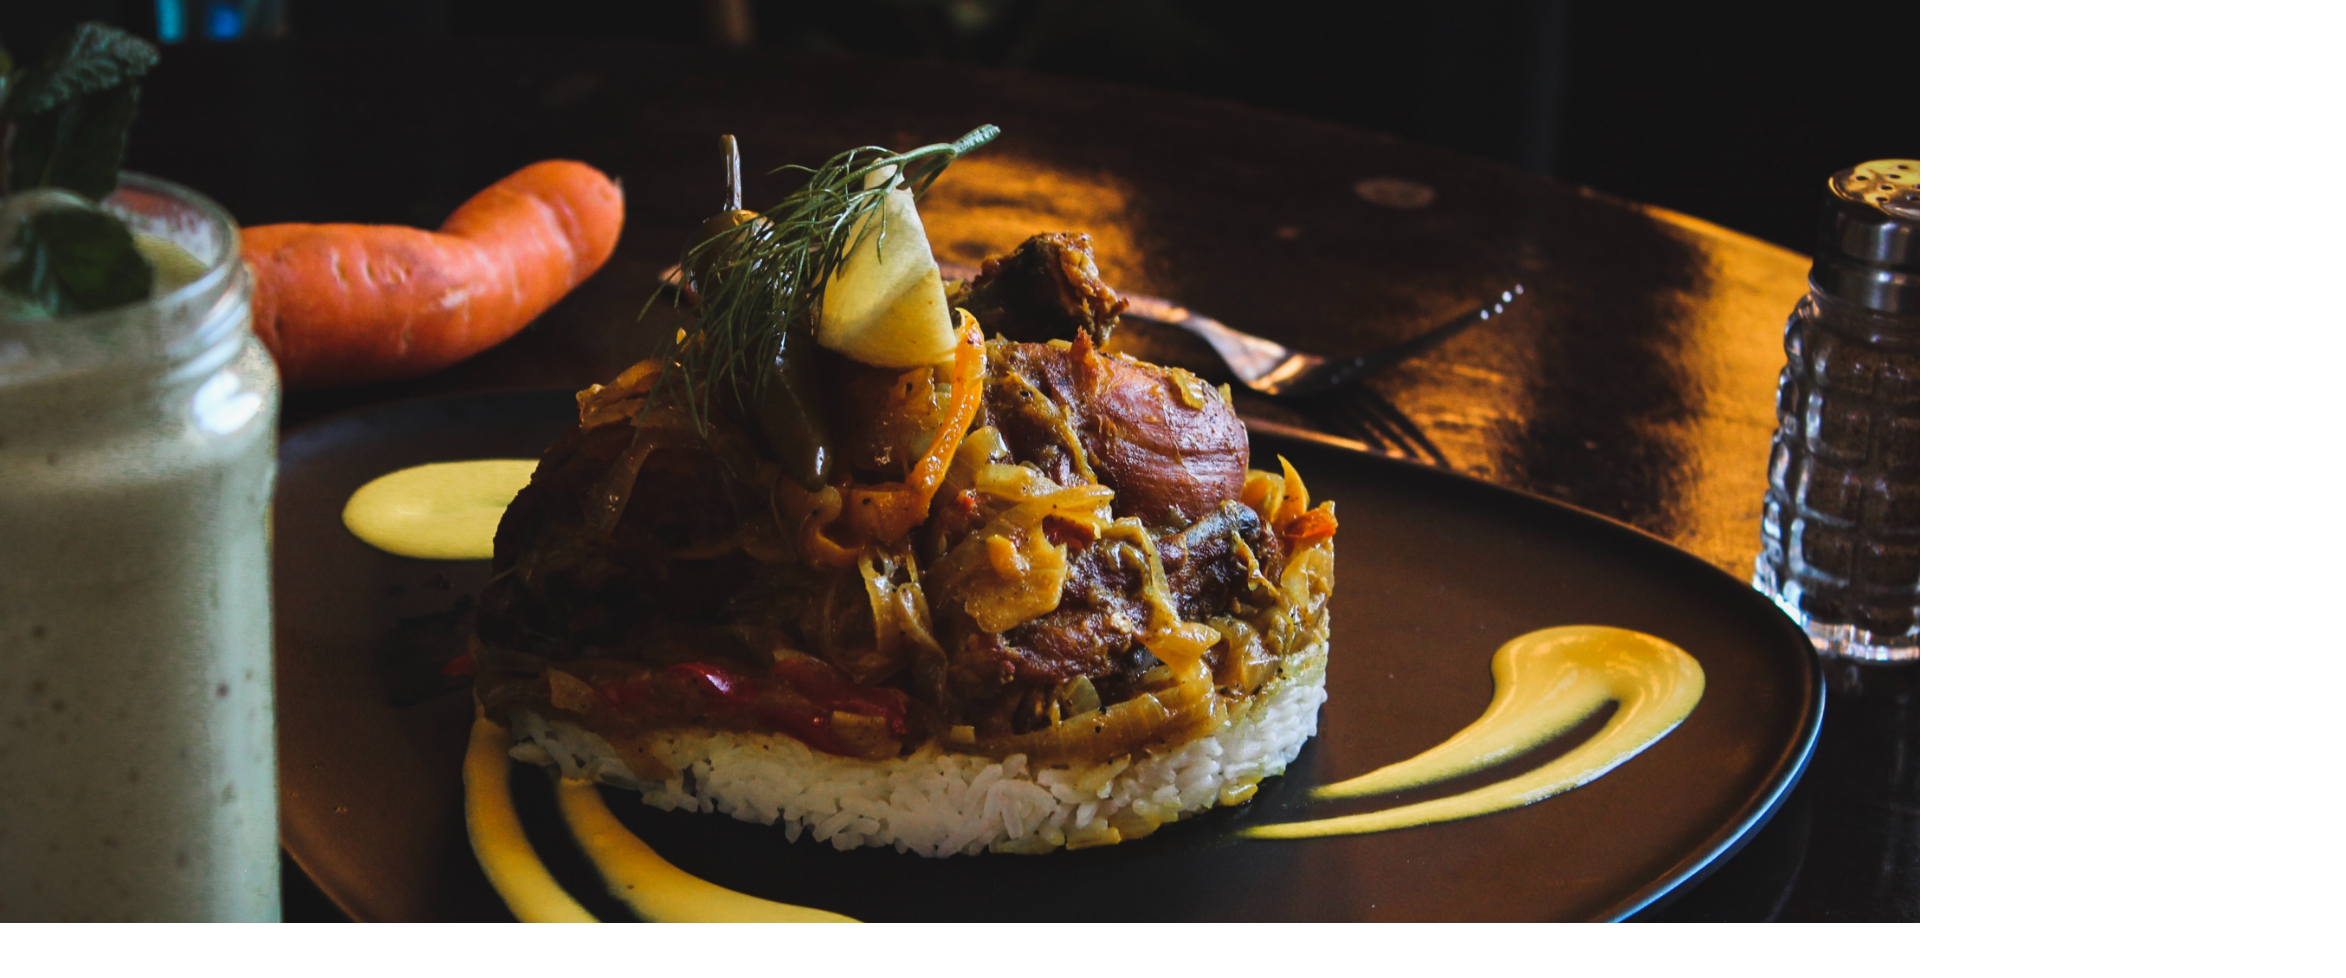
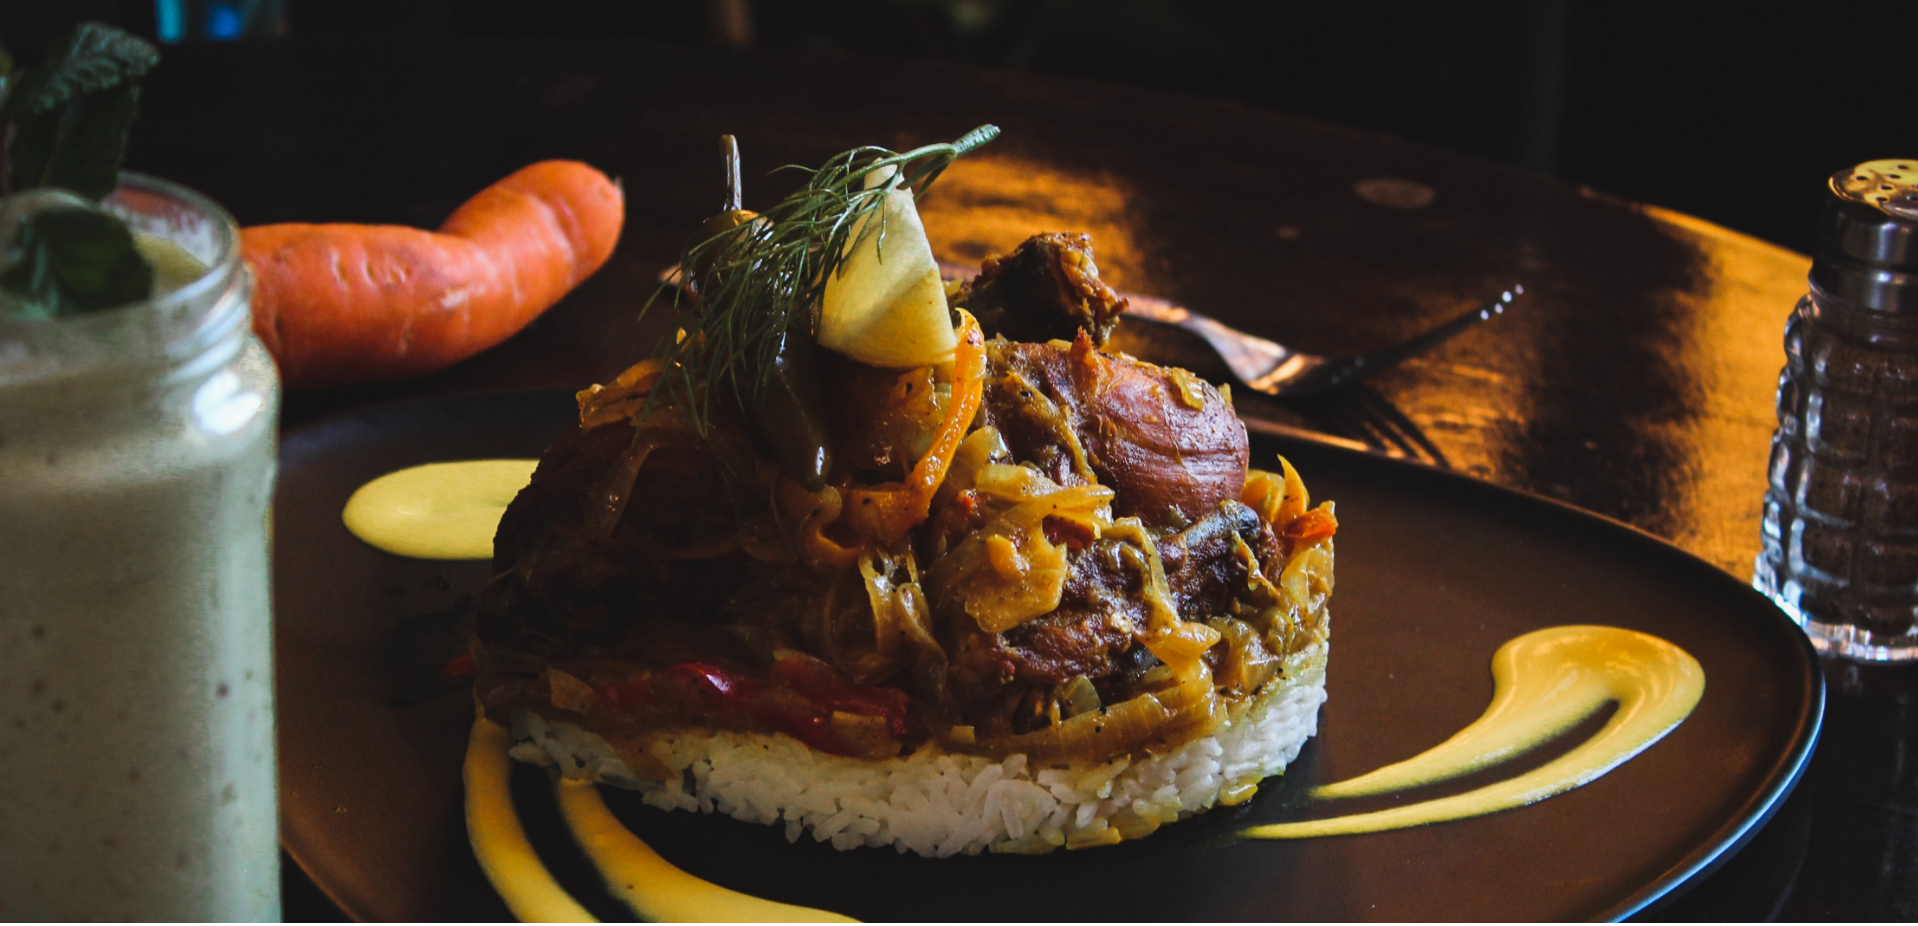
adding hero image

diff --git a/style.css b/style.css
@@ -49,27 +49,15 @@ body {
   }
 
   /*Hero section*/
-  .hero-container{
-    position: relative;
-    display: inline-block;
-  }
+ .hero-container{
+  width: 100%;
+  height: 600px;
+  background-image: url('./imager/hero.png');
+  background-repeat: no-repeat;
+  background-size: 100% 100%;
+  color: white;
+ }
 
-  .image-text{
-    position: absolute;
-    top: 50%;
-    left: 50%;
-    transform: translate(-50%,-50%);
-    background-color:rgba(255,255,255,0.8);
-    padding: 10px;
-  }
-
-  img{
-    display: block;
-    max-width: 100%;
-    height:auto;
-  }
-
-  
 
 /****** Screen reader text *******/
 .sr-only {

diff --git a/index.html b/index.html
@@ -58,9 +58,11 @@
     <section>
 
         <div class="hero-container">
+          <div class="hero-text">
       <p class="image-text">"Food and a little love solves everything."</p>
-      <img src="/images/hero.png" alt="food-photo" />
+      <!--<img src="/images/hero.png" alt="food-photo" />-->
     </div>
+  </div>
   </section>
 
   <section>
